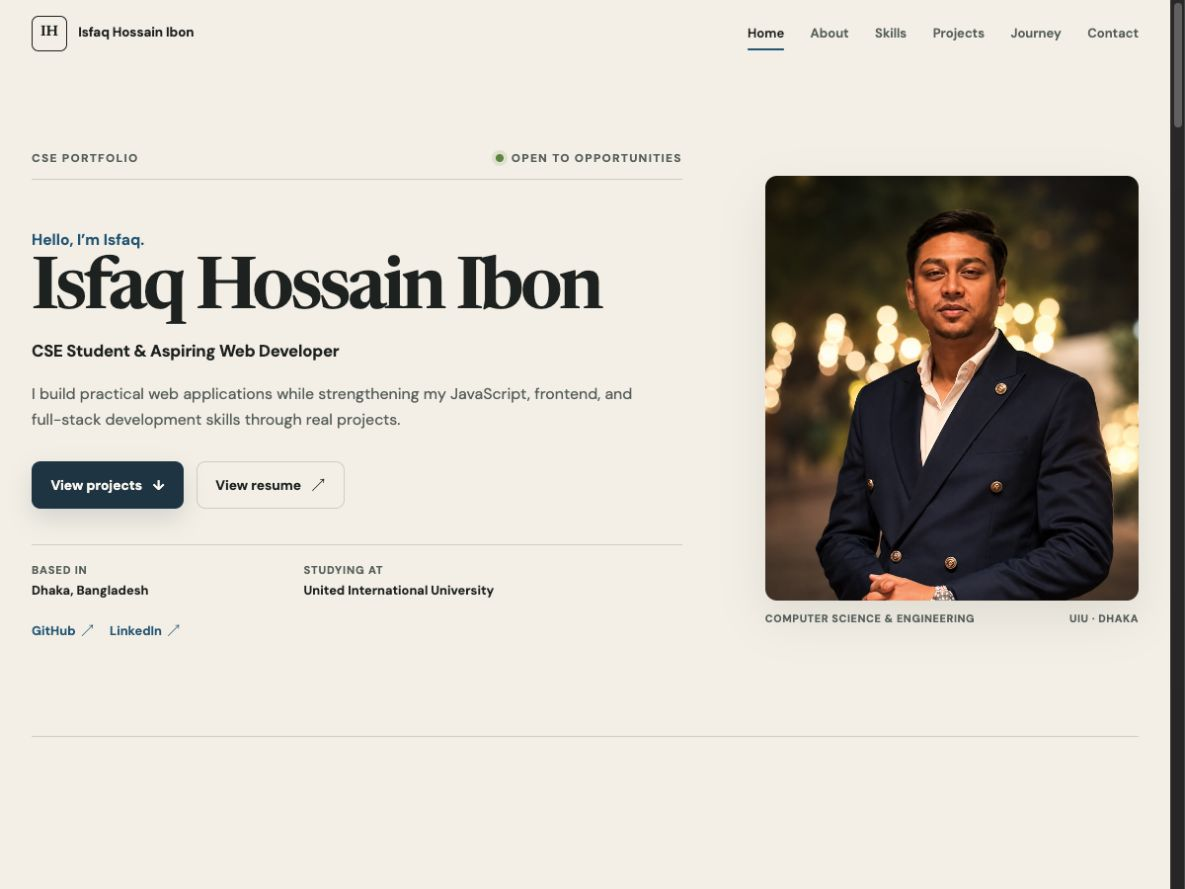
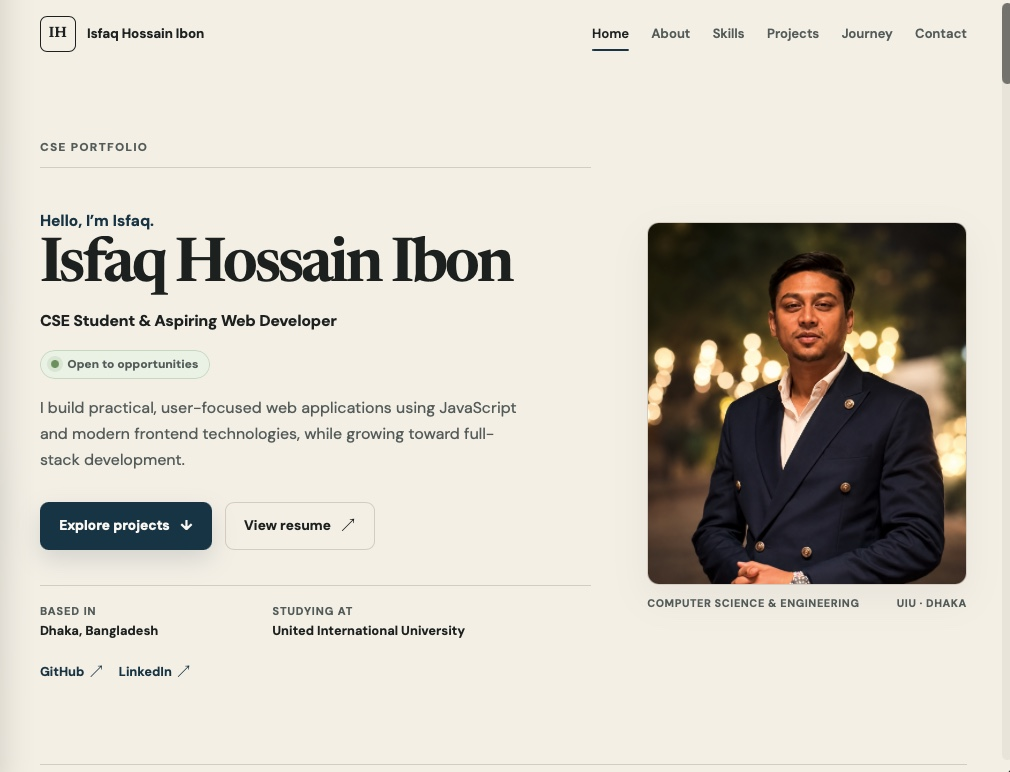
Polish portfolio design, responsiveness and interactions

diff --git a/README.md b/README.md
@@ -71,8 +71,6 @@ If the repository name changes, update the canonical and Open Graph URLs in `ind
 
 ![Portfolio homepage preview](./assets/portfolio-preview.jpg)
 
-![Portfolio mobile preview](./assets/portfolio-mobile-preview.jpg)
-
 The social-sharing card is available at `assets/og-portfolio.png`.
 
 ## Content still to add
